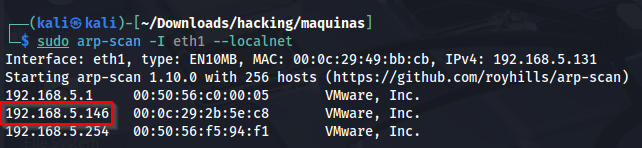
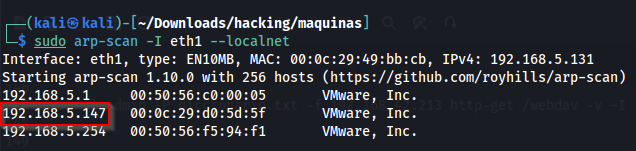
primer commit

diff --git a/Plex.md b/Plex.md
@@ -1,0 +1,32 @@
+# Máquina Plex
+
+### Reconocimiento de la Ip de la máquina víctima
+
+![alt text](image.png)
+
+### Puertos abiertos
+
+sudo nmap -sS --disable-arp-ping --min-rate 6000 -p- --open -vvv -Pn 192.168.5.147
+
+![alt text](image-1.png)
+
+### Servicios y versiones 
+
+sudo nmap -sVC --min-rate 6000 -p21 -vvv -Pn 192.168.5.147
+
+![alt text](image-2.png)
+
+### Explotación
+
+
+
+### Escalar privilegios
+
+
+
+### user.txt
+
+
+
+### root.txt
+
